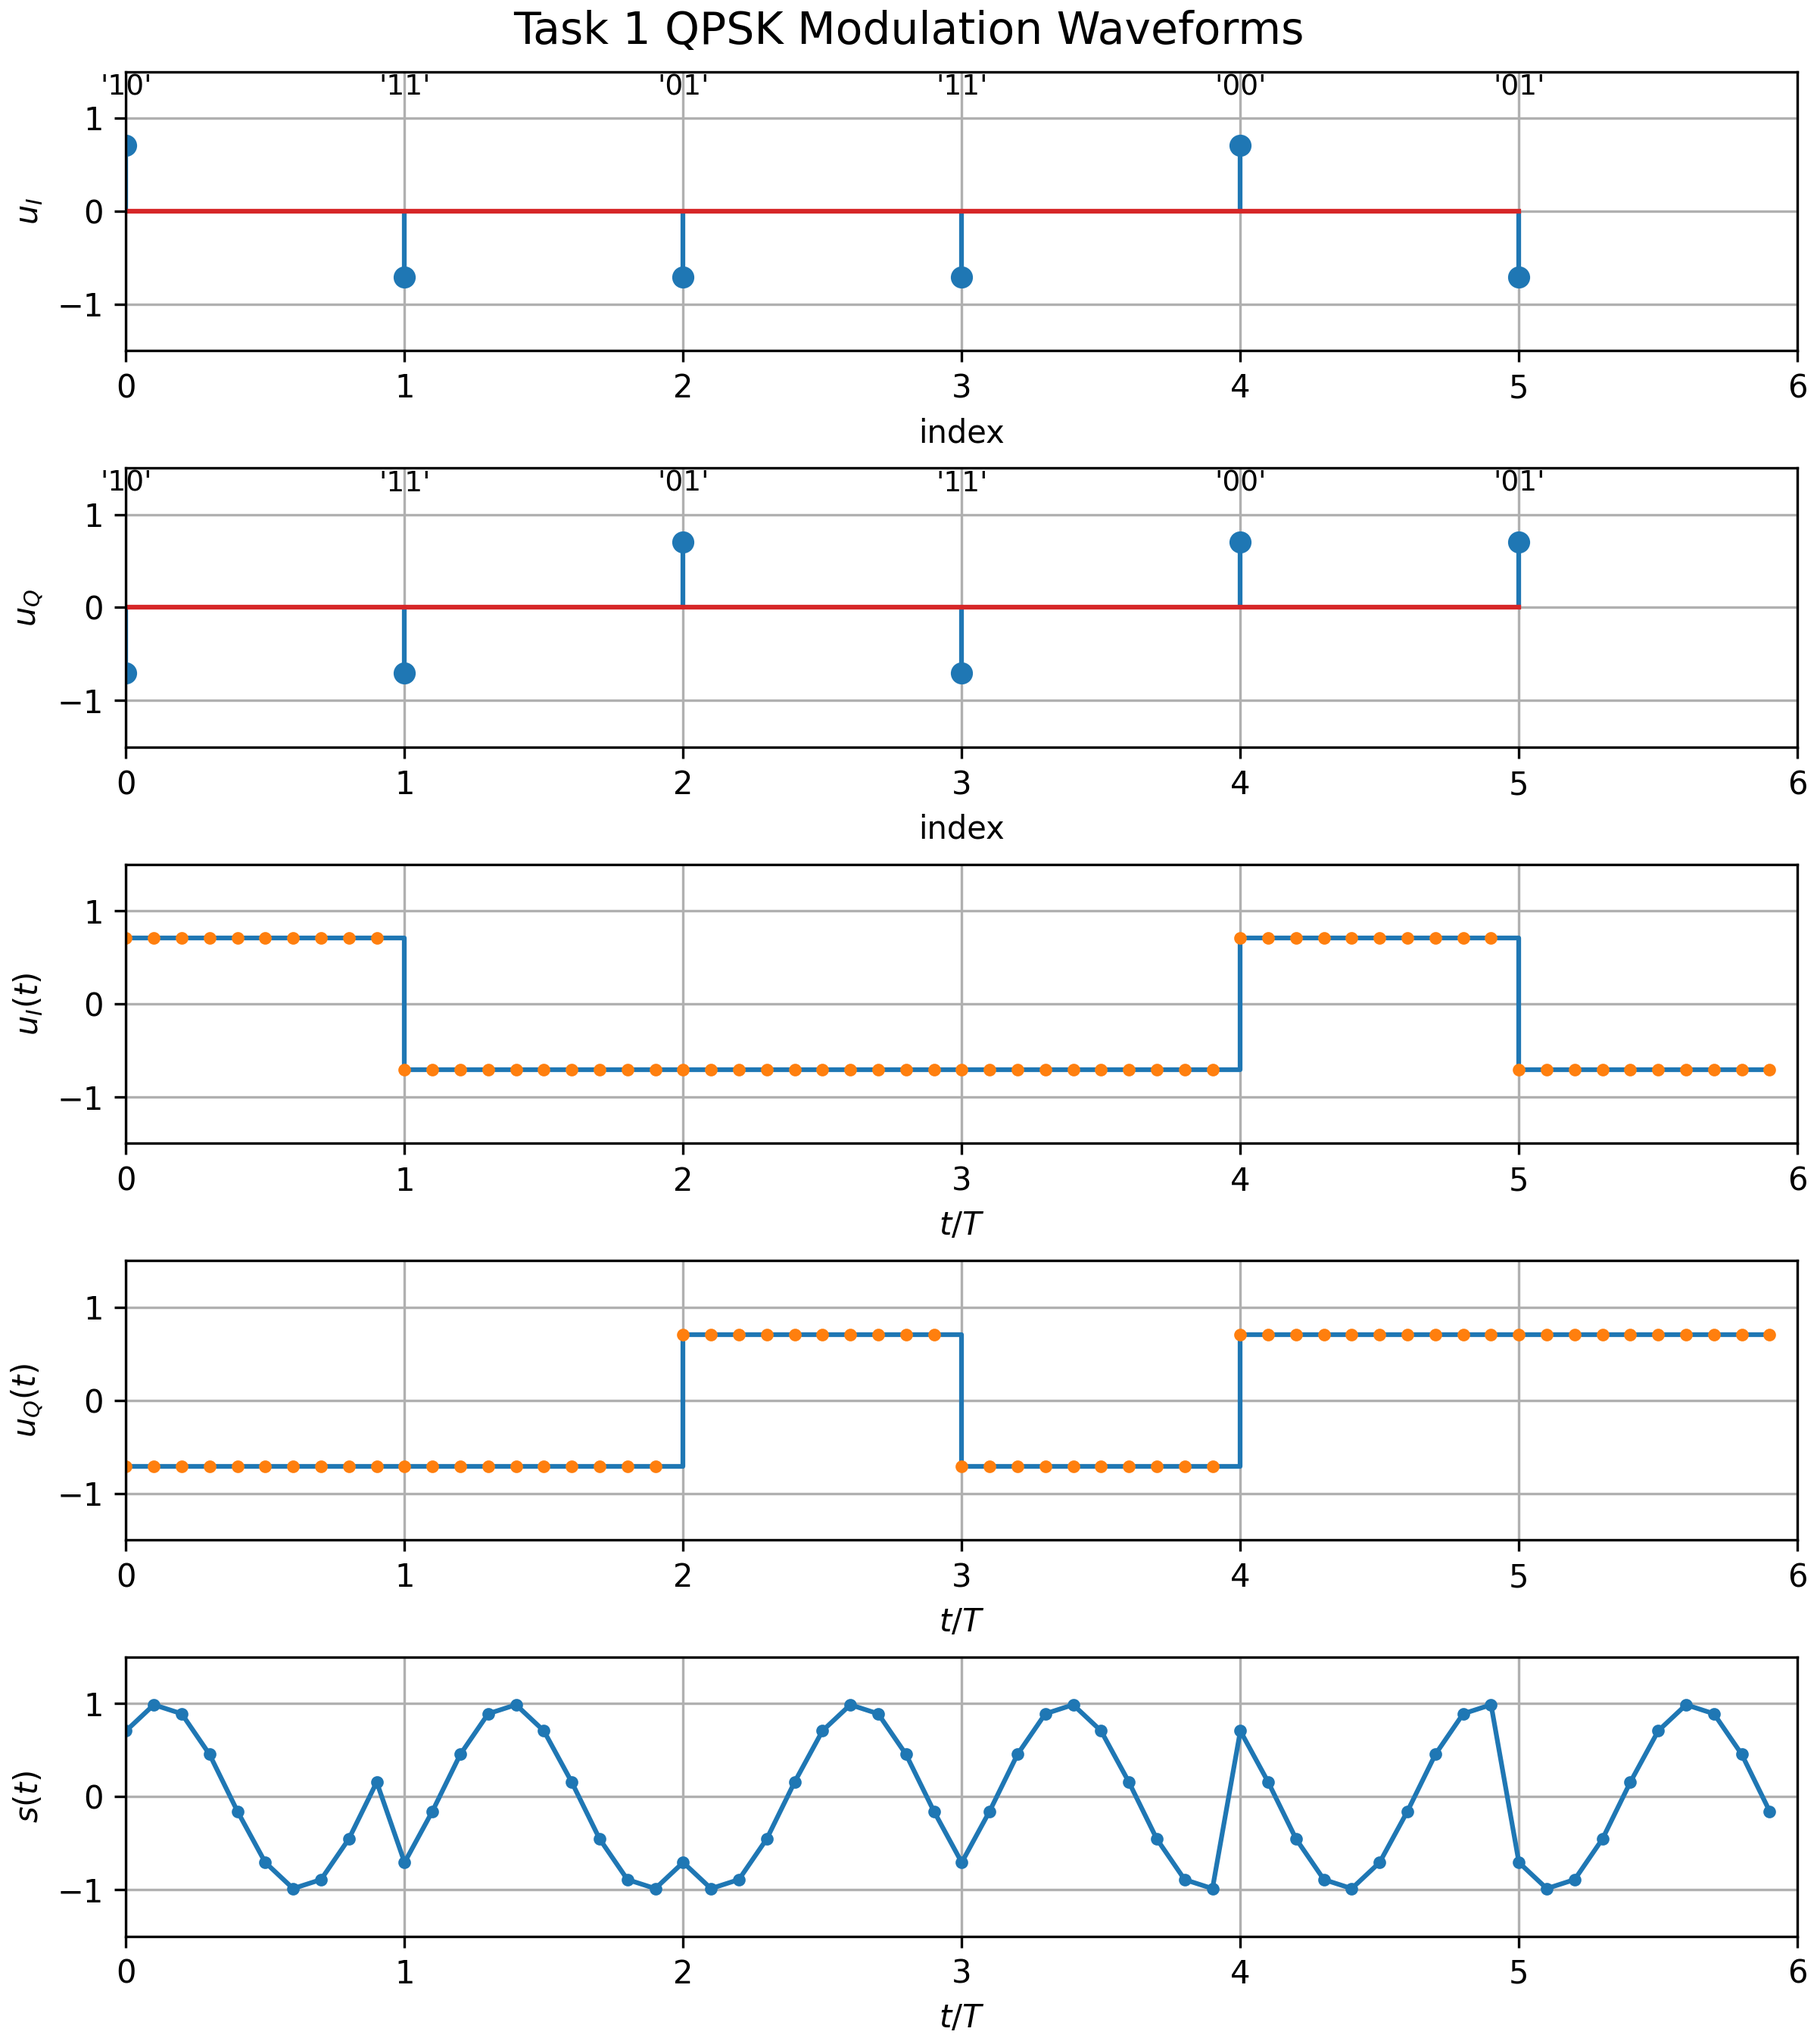
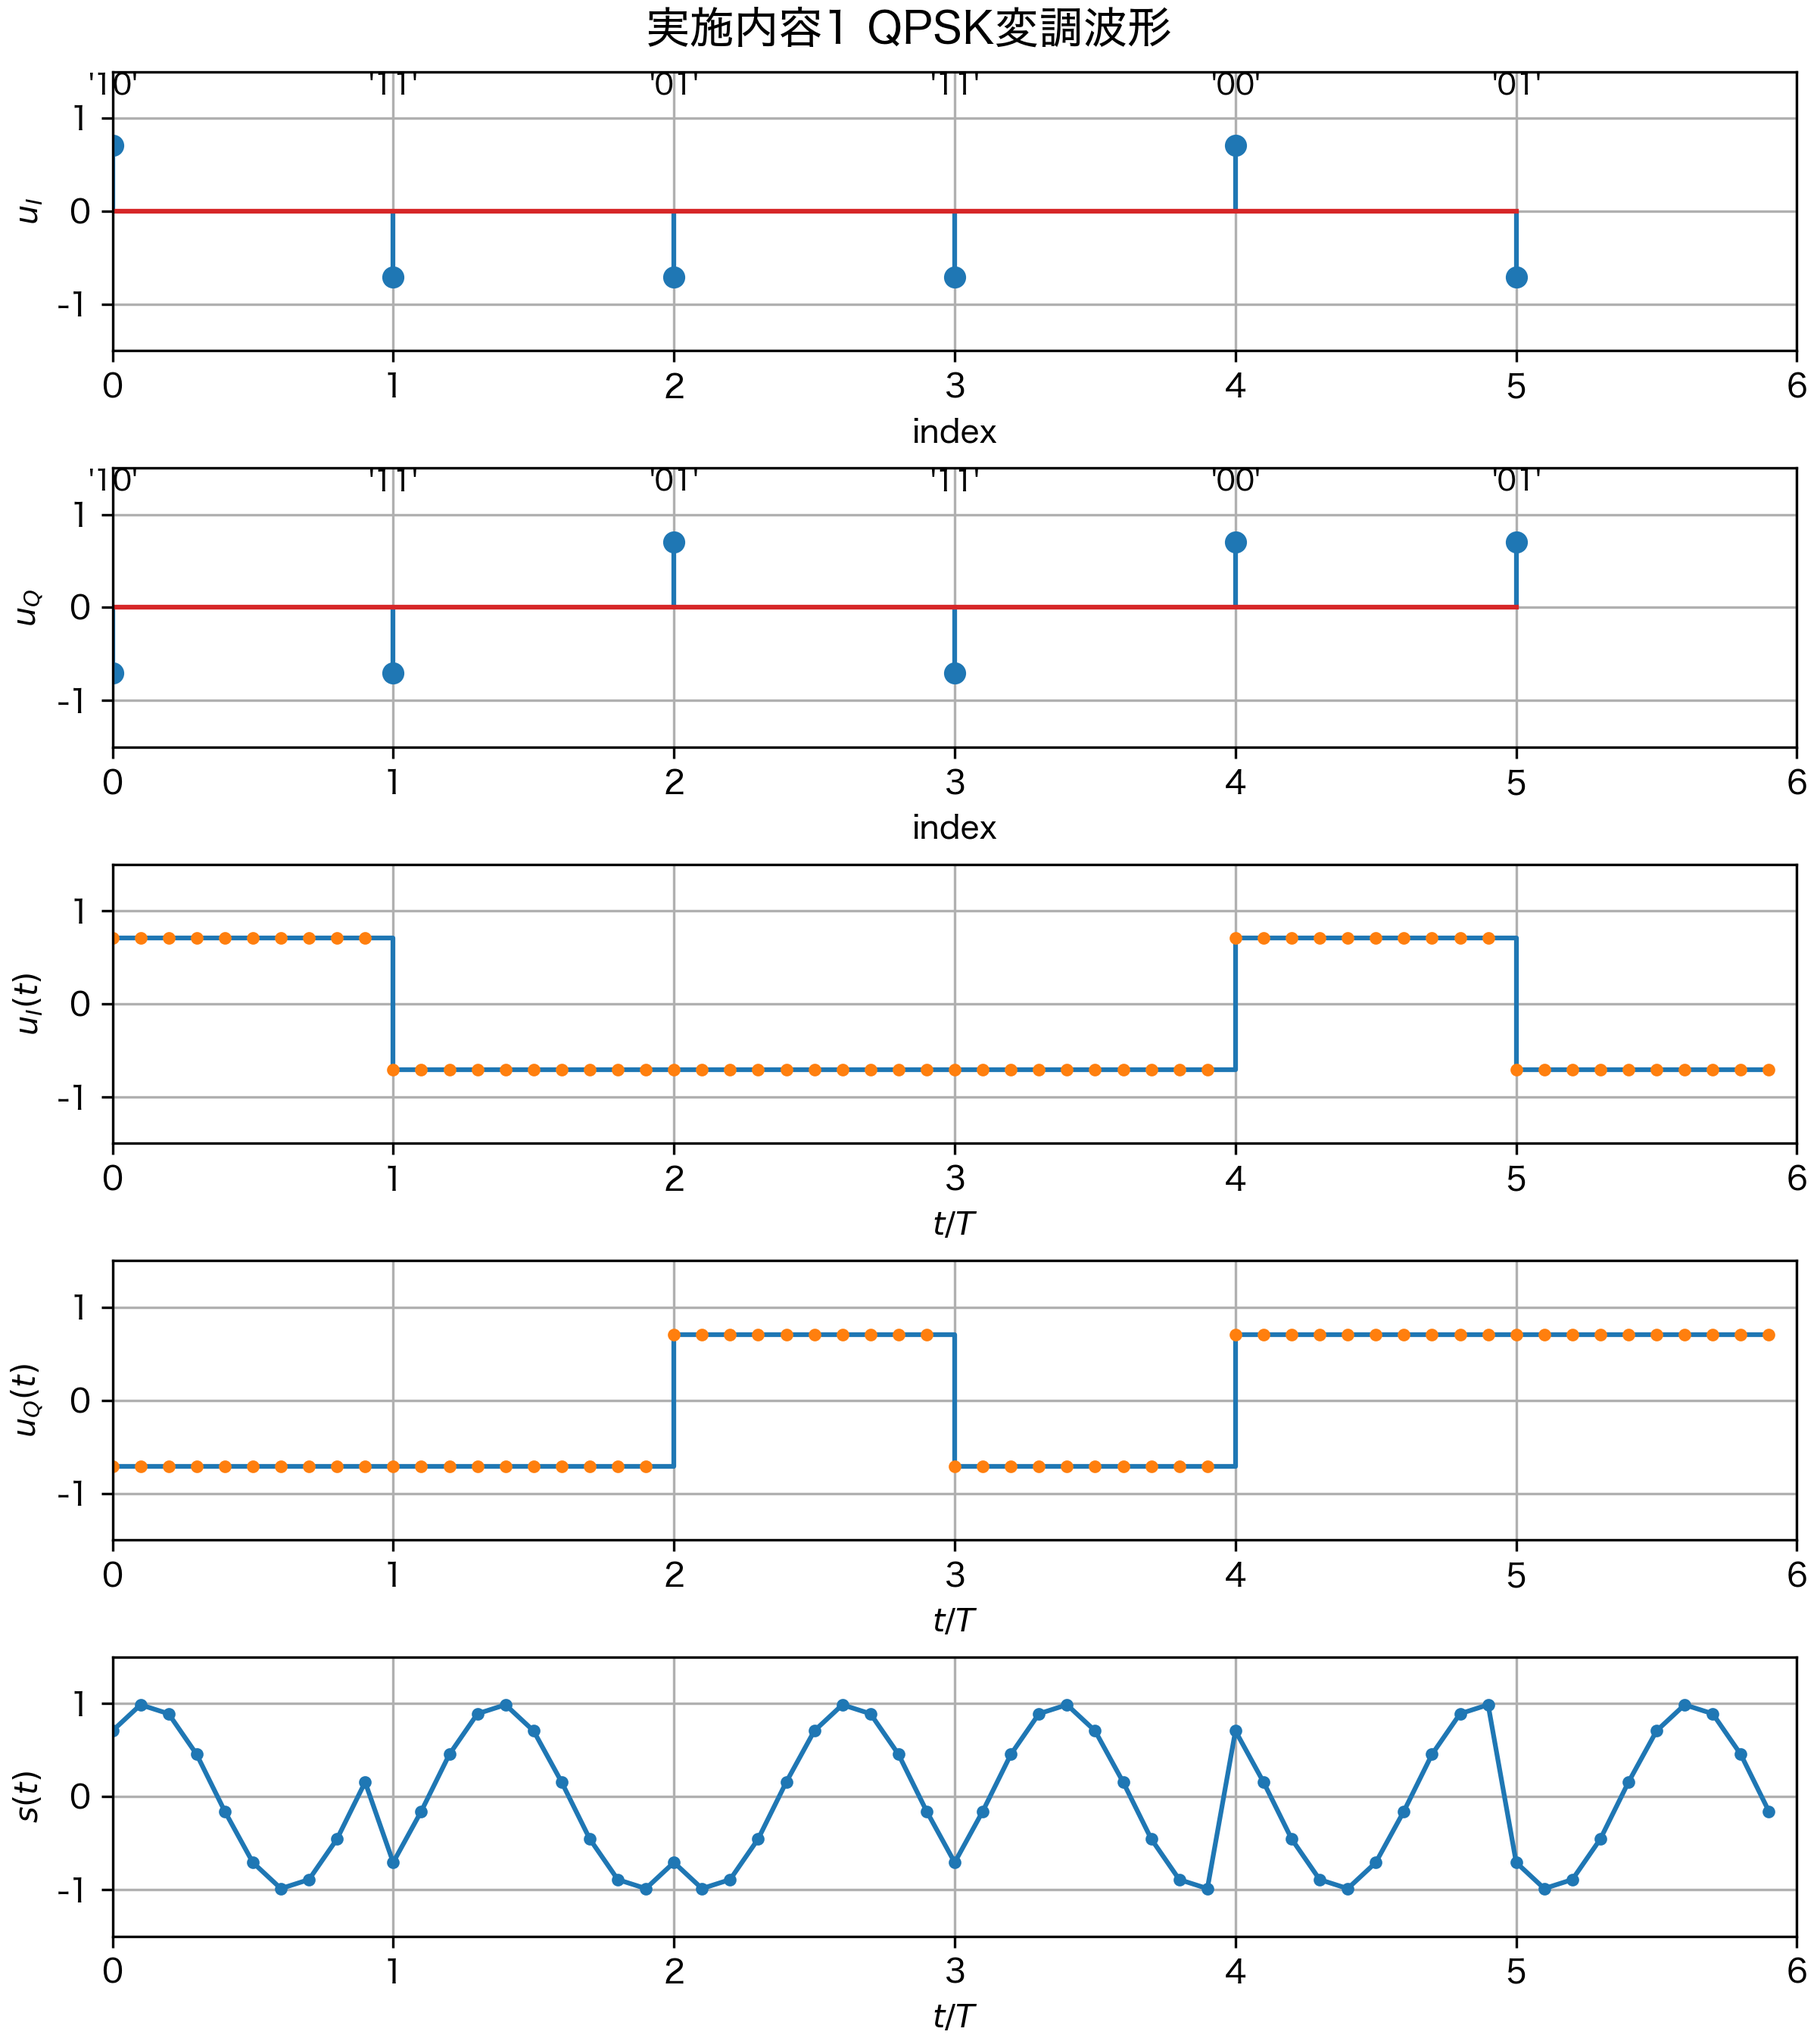
figures and full repo fixed

diff --git a/tasks/task2_qpsk_demodulation.py b/tasks/task2_qpsk_demodulation.py
@@ -26,7 +26,7 @@ def plot_task2(mod_result, demod_result, output_path: Path) -> None:
     pair_labels = ["".join(str(int(bit)) for bit in pair) for pair in mod_result.bit_pairs]
 
     fig = plt.figure(figsize=(12, 10), constrained_layout=True)
-    fig.suptitle("Task 2 QPSK Demodulation Waveforms", fontsize=14)
+    fig.suptitle("実施内容2 QPSK復調波形", fontsize=14)
     axes = [
         fig.add_subplot(5, 2, 1),
         fig.add_subplot(5, 2, 3),
@@ -93,7 +93,7 @@ def plot_constellation(demod_result, output_path: Path) -> None:
         demod_result.symbol_q,
         alpha=0.6,
         s=100,
-        label="Demodulated symbols",
+        label="復調シンボル",
         zorder=2,
     )
     ax.scatter(
@@ -102,14 +102,14 @@ def plot_constellation(demod_result, output_path: Path) -> None:
         marker="x",
         color="red",
         s=120,
-        label="Ideal symbols",
+        label="理想シンボル",
         zorder=3,
     )
     ax.axhline(0, color="black", linewidth=0.8)
     ax.axvline(0, color="black", linewidth=0.8)
     ax.set_xlabel("Inphase")
     ax.set_ylabel("Quadrature")
-    ax.set_title("Task 2 Demodulated Constellation")
+    ax.set_title("実施内容2 復調後シンボル点配置")
     ax.set_xlim(-1.5, 1.5)
     ax.set_ylim(-1.5, 1.5)
     ax.grid(True)

diff --git a/tasks/task5_data2_diversity.py b/tasks/task5_data2_diversity.py
@@ -50,8 +50,8 @@ def plot_task5(single_symbols, combined_symbols, output_path: Path) -> None:
 
     fig, axes = plt.subplots(1, 2, figsize=(10, 5), constrained_layout=True)
     for ax, symbols, title in [
-        (axes[0], single_symbols, "Best Single Frame"),
-        (axes[1], combined_symbols, "Diversity Combined"),
+        (axes[0], single_symbols, "最良の単一フレーム"),
+        (axes[1], combined_symbols, "ダイバーシチ合成後"),
     ]:
         ax.scatter(symbols.real, symbols.imag)
         ax.axhline(0, color="black", linewidth=0.8)
@@ -62,7 +62,7 @@ def plot_task5(single_symbols, combined_symbols, output_path: Path) -> None:
         ax.set_xlim(-2, 2)
         ax.set_ylim(-2, 2)
         ax.grid(True)
-    fig.suptitle("Task 5 data2 Diversity Combining")
+    fig.suptitle("実施内容5 data2のダイバーシチ合成")
     fig.savefig(output_path, dpi=300)
     plt.close(fig)
 

diff --git a/tasks/task4_data1_equalization.py b/tasks/task4_data1_equalization.py
@@ -29,8 +29,8 @@ def plot_constellations(rx_data, eq_data, output_path: Path) -> None:
 
     fig, axes = plt.subplots(1, 2, figsize=(10, 5), constrained_layout=True)
     for ax, symbols, title in [
-        (axes[0], rx_data, "Before Equalization"),
-        (axes[1], eq_data, "After Equalization"),
+        (axes[0], rx_data, "等化前"),
+        (axes[1], eq_data, "等化後"),
     ]:
         ax.scatter(symbols.real, symbols.imag)
         ax.axhline(0, color="black", linewidth=0.8)
@@ -41,7 +41,7 @@ def plot_constellations(rx_data, eq_data, output_path: Path) -> None:
         ax.set_xlim(-2, 2)
         ax.set_ylim(-2, 2)
         ax.grid(True)
-    fig.suptitle("Task 4 data1 Constellation")
+    fig.suptitle("実施内容4 data1のシンボル点配置")
     fig.savefig(output_path, dpi=300)
     plt.close(fig)
 

diff --git a/tasks/task3_ber_awgn.py b/tasks/task3_ber_awgn.py
@@ -76,11 +76,11 @@ def plot_ber(rows: list[dict[str, float]], output_path: Path) -> None:
     measured = np.array([row["measured_ber"] for row in rows])
 
     fig, ax = plt.subplots(figsize=(7, 5), constrained_layout=True)
-    ax.semilogy(gamma, theory, "-o", label="Theoretical BER")
-    ax.semilogy(gamma, measured, "s--", label="Measured BER")
+    ax.semilogy(gamma, theory, "-o", label="理論BER")
+    ax.semilogy(gamma, measured, "s--", label="測定BER")
     ax.set_xlabel("SNR per bit $\\gamma_b$ [dB]")
     ax.set_ylabel("$P_b$")
-    ax.set_title("Task 3 QPSK BER in AWGN")
+    ax.set_title("実施内容3 AWGN環境におけるQPSKのBER特性")
     ax.set_ylim(1e-6, 1)
     ax.grid(True, which="both")
     ax.legend()

diff --git a/src/plot_utils.py b/src/plot_utils.py
@@ -12,8 +12,16 @@ def setup_matplotlib() -> None:
     cache_dir.mkdir(parents=True, exist_ok=True)
     os.environ.setdefault("MPLCONFIGDIR", str(cache_dir.resolve()))
     import matplotlib
+    from matplotlib import font_manager
 
     matplotlib.use("Agg", force=True)
+    japanese_font = Path("/System/Library/Fonts/ヒラギノ角ゴシック W3.ttc")
+    if japanese_font.exists():
+        font_manager.fontManager.addfont(str(japanese_font))
+        matplotlib.rcParams["font.family"] = "Hiragino Sans"
+    else:
+        matplotlib.rcParams["font.family"] = "sans-serif"
+    matplotlib.rcParams["axes.unicode_minus"] = False
 
 
 def ensure_output_dirs() -> None:

diff --git a/tasks/task1_qpsk_modulation.py b/tasks/task1_qpsk_modulation.py
@@ -25,7 +25,7 @@ def plot_task1(result, output_path: Path) -> None:
     pair_labels = ["".join(str(int(bit)) for bit in pair) for pair in result.bit_pairs]
 
     fig, axes = plt.subplots(5, 1, figsize=(8, 9), constrained_layout=True)
-    fig.suptitle("Task 1 QPSK Modulation Waveforms", fontsize=14)
+    fig.suptitle("実施内容1 QPSK変調波形", fontsize=14)
 
     axes[0].stem(symbol_index, result.symbol_i)
     axes[0].set_ylabel("$u_I$")
